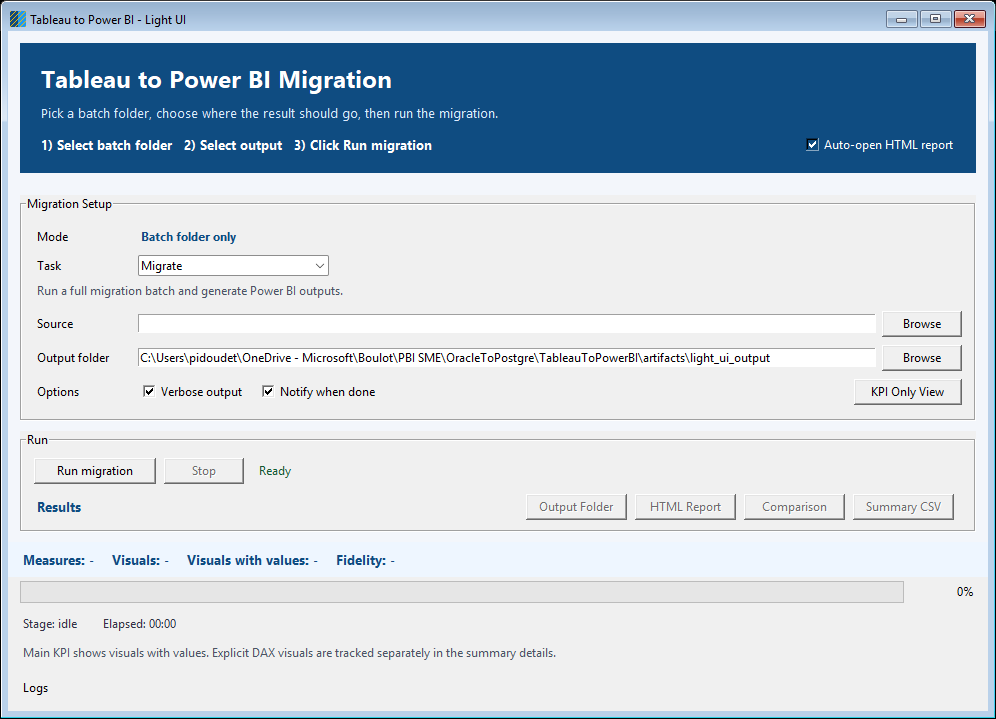
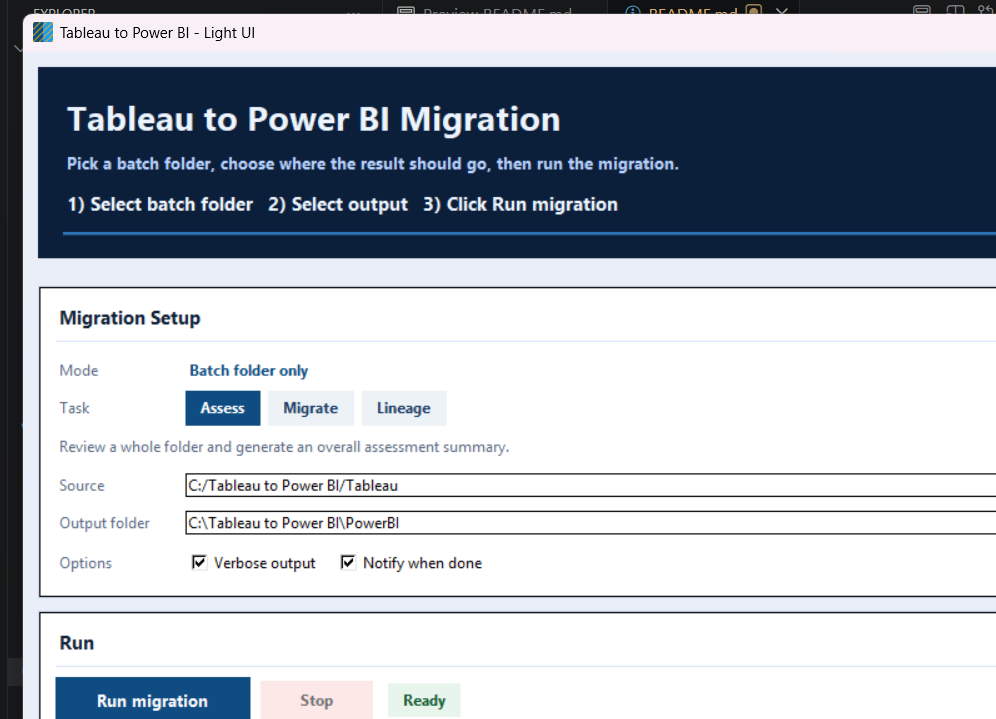
Fix assess/global CSV outputs and simplify Light UI controls

diff --git a/migrate.py b/migrate.py
@@ -4060,6 +4060,104 @@ def run_global_assessment_mode(args):
         save_global_assessment_json(result, output_path=json_path)
         print(f"  JSON report: {json_path}")
 
+        # Generate KPI summary CSVs aligned with dashboard conventions.
+        try:
+            from generate_report import _build_report_summary_rows, _write_summary_csv
+
+            def _norm_name(value):
+                text = str(value or '').strip()
+                return text.strip('[]').strip().lower()
+
+            def _estimate_table_count(ds_list):
+                total = 0
+                for ds in ds_list:
+                    tables = ds.get('tables', []) or []
+                    if tables:
+                        total += len(tables)
+                    else:
+                        total += 1
+                return total
+
+            migration_metadata = {}
+            for wb_name, converted in zip(workbook_names, all_converted):
+                datasources = converted.get('datasources', []) or []
+                worksheets = converted.get('worksheets', []) or []
+                calculations = converted.get('calculations', []) or []
+
+                calc_names = {
+                    _norm_name(c.get('name', ''))
+                    for c in calculations
+                    if _norm_name(c.get('name', ''))
+                }
+                calc_caption_names = {
+                    _norm_name(c.get('caption', ''))
+                    for c in calculations
+                    if _norm_name(c.get('caption', ''))
+                }
+
+                datasource_measure_names = set()
+                for ds in datasources:
+                    for table in ds.get('tables', []) or []:
+                        for col in table.get('columns', []) or []:
+                            if str(col.get('role', '')).strip().lower() == 'measure':
+                                col_name = _norm_name(col.get('name', ''))
+                                if col_name:
+                                    datasource_measure_names.add(col_name)
+
+                visual_details = []
+                for ws in worksheets:
+                    fields = ws.get('fields', []) or []
+                    measures = set()
+                    dax_measures = set()
+                    for fld in fields:
+                        name = _norm_name(fld.get('name', ''))
+                        if not name:
+                            continue
+                        is_measure_like = (
+                            bool(fld.get('aggregation'))
+                            or fld.get('shelf') == 'measure_value'
+                            or name in datasource_measure_names
+                            or name in calc_names
+                            or name in calc_caption_names
+                        )
+                        if is_measure_like:
+                            measures.add(str(fld.get('name', '')).strip())
+                        if name in calc_names or name in calc_caption_names:
+                            dax_measures.add(str(fld.get('name', '')).strip())
+
+                    visual_details.append({
+                        'pbi_visual': ws.get('chart_type') or ws.get('original_mark_class') or 'table',
+                        'measures': sorted(measures),
+                        'dax_measures': sorted(dax_measures),
+                    })
+
+                migration_metadata[wb_name] = {
+                    'objects_converted': {
+                        'datasources': len(datasources),
+                    },
+                    'tmdl_stats': {
+                        'tables': _estimate_table_count(datasources),
+                        'measures': len(calc_names),
+                    },
+                    'generated_output': {
+                        'visuals': len(visual_details),
+                    },
+                    'dax_measure_names': sorted(calc_names),
+                    'visual_details': visual_details,
+                }
+
+            summary_rows = _build_report_summary_rows({}, migration_metadata)
+
+            summary_paths = [
+                os.path.join(out, 'global_assessment_summary.csv'),
+                os.path.join(out, 'MIGRATION_DASHBOARD_summary.csv'),
+            ]
+            for summary_path in summary_paths:
+                _write_summary_csv(summary_path, summary_rows)
+                print(f"📊 Assessment summary CSV: {summary_path}")
+        except Exception as csv_exc:
+            logger.warning("Global assessment summary CSV generation failed: %s", csv_exc)
+
         return ExitCode.SUCCESS
 
     except Exception as e:
@@ -4486,6 +4584,139 @@ def _run_assessment_mode(args, results):
         has_prep = bool(args.prep and results.get('prep'))
         rec = recommend_strategy(extracted, prep_flow=has_prep)
         print_recommendation(rec)
+
+        # Generate migration-compatible summary CSV for UI KPI parity.
+        try:
+            from generate_report import _build_report_summary_rows, _write_summary_csv
+
+            worksheets = extracted.get('worksheets', []) or []
+            calculations = extracted.get('calculations', []) or []
+            datasources = extracted.get('datasources', []) or []
+            def _norm_name(value):
+                text = str(value or '').strip()
+                return text.strip('[]').strip().lower()
+
+            calc_names = {
+                _norm_name(c.get('name', ''))
+                for c in calculations
+                if _norm_name(c.get('name', ''))
+            }
+            calc_caption_names = {
+                _norm_name(c.get('caption', ''))
+                for c in calculations
+                if _norm_name(c.get('caption', ''))
+            }
+            datasource_measure_names = set()
+            for ds in datasources:
+                for table in ds.get('tables', []) or []:
+                    for col in table.get('columns', []) or []:
+                        if str(col.get('role', '')).strip().lower() == 'measure':
+                            col_name = _norm_name(col.get('name', ''))
+                            if col_name:
+                                datasource_measure_names.add(col_name)
+
+            def _estimate_table_count(ds_list):
+                total = 0
+                for ds in ds_list:
+                    tables = ds.get('tables', []) or []
+                    if tables:
+                        total += len(tables)
+                    else:
+                        total += 1
+                return total
+
+            visual_details = []
+            for ws in worksheets:
+                fields = ws.get('fields', []) or []
+                measures = set()
+                dax_measures = set()
+                for fld in fields:
+                    name = _norm_name(fld.get('name', ''))
+                    if not name:
+                        continue
+                    is_measure_like = (
+                        bool(fld.get('aggregation'))
+                        or fld.get('shelf') == 'measure_value'
+                        or name in datasource_measure_names
+                        or name in calc_names
+                        or name in calc_caption_names
+                    )
+                    if is_measure_like:
+                        measures.add(str(fld.get('name', '')).strip())
+                    if name in calc_names or name in calc_caption_names:
+                        dax_measures.add(str(fld.get('name', '')).strip())
+
+                visual_details.append({
+                    'pbi_visual': ws.get('chart_type') or ws.get('original_mark_class') or 'table',
+                    'measures': sorted(measures),
+                    'dax_measures': sorted(dax_measures),
+                })
+
+            synthetic_meta = {
+                source_basename: {
+                    'objects_converted': {
+                        'datasources': len(datasources),
+                    },
+                    'tmdl_stats': {
+                        'tables': _estimate_table_count(datasources),
+                        'measures': len(calc_names),
+                    },
+                    'generated_output': {
+                        'visuals': len(visual_details),
+                    },
+                    'dax_measure_names': sorted(calc_names),
+                    'visual_details': visual_details,
+                }
+            }
+
+            summary_rows = _build_report_summary_rows({}, synthetic_meta)
+            summary_csv_path = os.path.join(out_dir, f'MIGRATION_DASHBOARD_{source_basename}_summary.csv')
+            _write_summary_csv(summary_csv_path, summary_rows)
+            print(f"\n📊 Assessment summary CSV: {summary_csv_path}")
+
+            # Also emit the legacy dashboard summary name so it sits beside
+            # MIGRATION_DASHBOARD.html in the same folder when users expect it.
+            legacy_summary_csv_path = os.path.join(out_dir, 'MIGRATION_DASHBOARD_summary.csv')
+            _write_summary_csv(legacy_summary_csv_path, summary_rows)
+            print(f"📊 Assessment summary CSV (dashboard name): {legacy_summary_csv_path}")
+
+            global_assessment_summary_csv_path = os.path.join(out_dir, 'global_assessment_summary.csv')
+            _write_summary_csv(global_assessment_summary_csv_path, summary_rows)
+            print(
+                "📊 Assessment summary CSV (global assessment name): "
+                f"{global_assessment_summary_csv_path}"
+            )
+
+            # Also place a copy next to the saved assessment report bundle folder.
+            if os.path.isdir(assess_path):
+                nested_summary_csv_path = os.path.join(
+                    assess_path,
+                    f'MIGRATION_DASHBOARD_{source_basename}_summary.csv',
+                )
+                _write_summary_csv(nested_summary_csv_path, summary_rows)
+                print(f"📊 Assessment summary CSV (assessment folder): {nested_summary_csv_path}")
+
+                nested_legacy_summary_csv_path = os.path.join(
+                    assess_path,
+                    'MIGRATION_DASHBOARD_summary.csv',
+                )
+                _write_summary_csv(nested_legacy_summary_csv_path, summary_rows)
+                print(
+                    "📊 Assessment summary CSV (assessment folder, dashboard name): "
+                    f"{nested_legacy_summary_csv_path}"
+                )
+
+                nested_global_assessment_summary_csv_path = os.path.join(
+                    assess_path,
+                    'global_assessment_summary.csv',
+                )
+                _write_summary_csv(nested_global_assessment_summary_csv_path, summary_rows)
+                print(
+                    "📊 Assessment summary CSV (assessment folder, global assessment name): "
+                    f"{nested_global_assessment_summary_csv_path}"
+                )
+        except Exception as csv_exc:
+            logger.warning("Assessment summary CSV generation failed: %s", csv_exc)
 
         print("\n✓ Assessment complete (no generation performed)")
         return ExitCode.SUCCESS

diff --git a/web/light_ui.py b/web/light_ui.py
@@ -42,7 +42,7 @@ class LightMigrationUI:
         self.mode_var = tk.StringVar(value="batch")
         self.preset_var = tk.StringVar(value="Migrate")
         self.source_var = tk.StringVar(value="")
-        self.output_var = tk.StringVar(value=str(self.repo_root / "artifacts" / "light_ui_output"))
+        self.output_var = tk.StringVar(value=str(self.repo_root))
         self.verbose_var = tk.BooleanVar(value=True)
         self.assess_only_var = tk.BooleanVar(value=False)
         self.global_assess_var = tk.BooleanVar(value=False)
@@ -135,13 +135,13 @@ class LightMigrationUI:
         verbose = data.get("verbose")
         notify = data.get("notify")
         auto_open = data.get("auto_open_report")
-        compact = data.get("compact_mode")
-        kpi_only = data.get("kpi_only")
 
         if isinstance(source, str):
             self.source_var.set(source)
         if isinstance(output, str) and output.strip():
             self.output_var.set(output)
+        else:
+            self.output_var.set(str(self.repo_root))
         if preset in {"Assess", "Migrate", "Lineage"}:
             self.preset_var.set(preset)
         if isinstance(verbose, bool):
@@ -150,10 +150,6 @@ class LightMigrationUI:
             self.notify_var.set(notify)
         if isinstance(auto_open, bool):
             self.auto_open_report_var.set(auto_open)
-        if isinstance(compact, bool):
-            self._compact_mode = compact
-        if isinstance(kpi_only, bool):
-            self._kpi_only = kpi_only
 
     def _save_settings(self) -> None:
         data = {
@@ -163,8 +159,6 @@ class LightMigrationUI:
             "verbose": self.verbose_var.get(),
             "notify": self.notify_var.get(),
             "auto_open_report": self.auto_open_report_var.get(),
-            "compact_mode": self._compact_mode,
-            "kpi_only": self._kpi_only,
         }
         try:
             self.settings_path.write_text(json.dumps(data, indent=2), encoding="utf-8")
@@ -342,14 +336,6 @@ class LightMigrationUI:
         tk.Label(opts_row, text="Options", width=14, anchor="w", bg=self.ui["surface"], fg=self.ui["muted"]).pack(side=tk.LEFT)
         tk.Checkbutton(opts_row, text="Verbose output", variable=self.verbose_var, bg=self.ui["surface"], activebackground=self.ui["surface"]).pack(side=tk.LEFT)
         tk.Checkbutton(opts_row, text="Notify when done", variable=self.notify_var, bg=self.ui["surface"], activebackground=self.ui["surface"]).pack(side=tk.LEFT, padx=(10, 0))
-        self.compact_state_label = tk.Label(opts_row, text="Compact: OFF", fg=self.ui["muted"], bg=self.ui["surface"])
-        self.compact_state_label.pack(side=tk.RIGHT, padx=(8, 0))
-        self.compact_btn = tk.Button(opts_row, text="Compact Mode", width=14, command=self._toggle_compact_mode, relief="flat", bd=0, bg=self.ui["chip_bg"], activebackground=self.ui["chip_hover"])
-        self.compact_btn.pack(side=tk.RIGHT, padx=(8, 0))
-        self.kpi_only_btn = tk.Button(opts_row, text="KPI Only View", width=14, command=self._toggle_kpi_only, relief="flat", bd=0, bg=self.ui["chip_bg"], activebackground=self.ui["chip_hover"])
-        self.kpi_only_btn.pack(side=tk.RIGHT)
-        self._bind_hover(self.compact_btn, self.ui["chip_bg"], self.ui["chip_hover"])
-        self._bind_hover(self.kpi_only_btn, self.ui["chip_bg"], self.ui["chip_hover"])
 
         mode_opts_row = tk.Frame(setup_card, bg=self.ui["surface"])
         self.assess_cb = tk.Checkbutton(
@@ -562,10 +548,6 @@ class LightMigrationUI:
         self.mode_var.trace_add("write", lambda *_: self._update_option_states())
         self._update_option_states()
         self._apply_preset()
-        if self._compact_mode:
-            self._toggle_compact_mode()
-        if self._kpi_only:
-            self._toggle_kpi_only()
 
     def _set_task(self, task: str) -> None:
         self.preset_var.set(task)
@@ -750,9 +732,23 @@ class LightMigrationUI:
             self._last_dashboard = dash_match.group(1).strip()
             self._last_summary_csv = os.path.splitext(self._last_dashboard)[0] + "_summary.csv"
 
+        html_report_match = re.search(r"HTML report:\s*(.+\.html)", text)
+        if html_report_match:
+            self._last_dashboard = html_report_match.group(1).strip()
+            if not self._last_summary_csv:
+                candidate_summary = os.path.join(
+                    os.path.dirname(self._last_dashboard),
+                    "global_assessment_summary.csv",
+                )
+                self._last_summary_csv = candidate_summary
+
         comp_match = re.search(r"Comparison report:\s*(.+\.html)", text)
         if comp_match:
             self._last_comparison = comp_match.group(1).strip()
+
+        assess_summary_match = re.search(r"Assessment summary CSV:\s*(.+\.csv)", text)
+        if assess_summary_match:
+            self._last_summary_csv = assess_summary_match.group(1).strip()
 
         pbip_match = re.search(r"\[OK\]\s+Power BI Project created:\s*(.+)", text)
         if pbip_match and not self._last_output_dir:

diff --git a/README.md b/README.md
@@ -60,7 +60,6 @@ Built with Tkinter (standard library), this UI is intended for non-technical use
 - choose output folder
 - run migration and follow logs live
 - pick one task from: Assess, Migrate, Lineage
-- use KPI-only view for a clean summary-focused screen
 - auto-open HTML report when migration completes (optional toggle)
 - open generated HTML report/comparison and summary CSV in one click
 